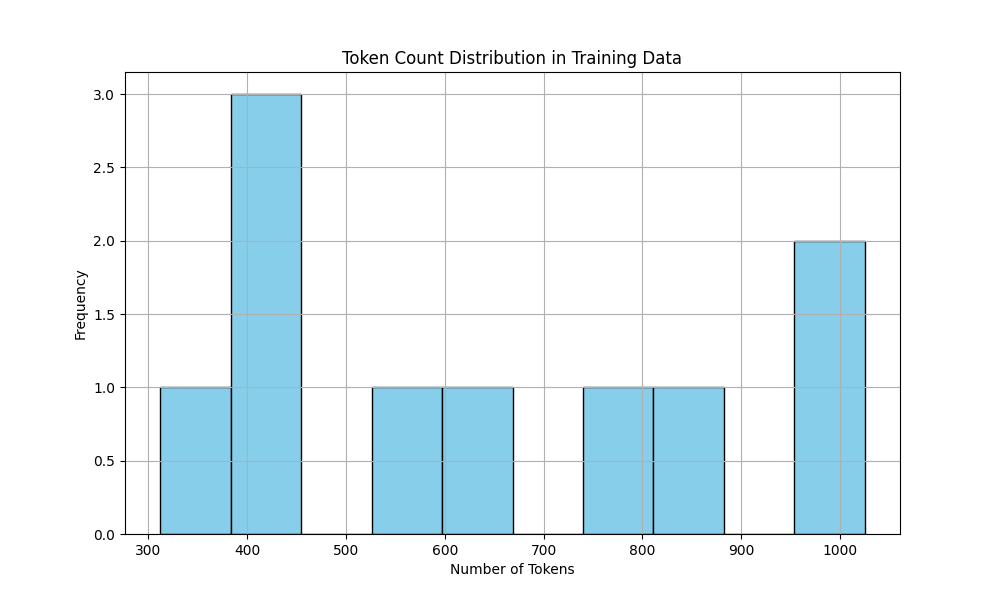
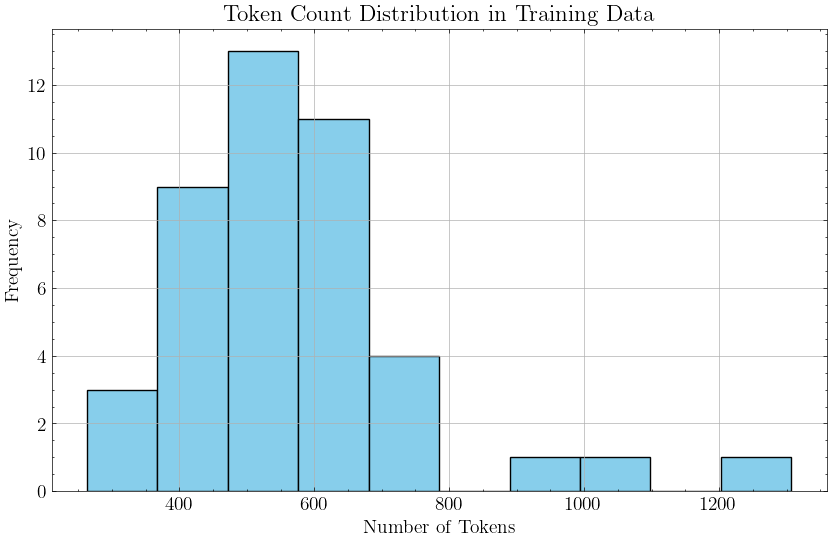
Training adjusted for SQLite DB

diff --git a/src/trainer.py b/src/trainer.py
@@ -1,8 +1,9 @@
 from transformers import AutoTokenizer, TrainingArguments, Trainer, AutoModelForCausalLM
 from dotenv import load_dotenv
-import os, torch, logging, datasets, json, argparse
+import os, torch, logging, datasets, json, argparse, sqlite3
 from peft import LoraConfig, get_peft_model
 from datasets import load_dataset
+import pandas as pd
 from JanusLModel import JanusSequenceClassification
 from torch.utils.data import DataLoader
 from torch.optim import AdamW 
@@ -33,63 +34,68 @@ if args.verbose:
     logging.basicConfig(level=logging.INFO)
 logger = logging.getLogger(__name__)
 
-def AnalyzeTrainingData():
-    tokenizer = AutoTokenizer.from_pretrained(model_path)
-    token_lengths = []
-    with open("datasets/reasoning.jsonl", "r", encoding="utf-8") as f:
-        file_data = "".join(f.readlines())
-        items = json.loads(file_data)
-        for item in items:
-            full_text = item["prompt"] + item["reasoning"]
-            tokenized = tokenizer(full_text, truncation=False)
-            token_lengths.append(len(tokenized["input_ids"]))
-    plt.style.use('science')
-    plt.figure(figsize=(10, 6))
-    plt.hist(token_lengths, bins=10, color='skyblue', edgecolor='black')
-    plt.title("Token Count Distribution in Training Data")
-    plt.xlabel("Number of Tokens")
-    plt.ylabel("Frequency")
-    plt.grid(True)
-    plt.savefig("imgs/training-data-tokens-distribution.png")
+def load_data():
+    conn = sqlite3.connect('datasets/data.db')
+    df = pd.read_sql_query("SELECT * FROM training_data", conn)
+    from datasets import Dataset
+    dataset = Dataset.from_pandas(df)
+    return dataset
 
 def StartTraining():
     if args.cpu:
         torch.set_num_threads(1)
     tokenizer = AutoTokenizer.from_pretrained(model_path)
-    dataset = load_dataset("json", data_files="datasets/reasoning.jsonl")
+    dataset = load_data()
     tokenizer.pad_token = tokenizer.eos_token
+    with open("prompts/training_reasoning_self_classification.txt", "r", encoding="utf-8") as f: prompt_tmp = f.read()
 
     def tokenize_fn(sample):
-        prompt = sample["prompt"]
-        full_text = prompt + sample["reasoning"] + "\n\n### Response:" + str(sample["classification"])
-        tokenized = tokenizer(
-            full_text,
-            truncation=True,
-            padding="max_length",
-            max_length=2048,
+        full_text = (
+            prompt_tmp
+            .replace("{request}", sample["request"])
+            .replace("{response}", sample["response"])
+            .replace("{reasoning}", sample["analysis"])
+            .replace("{result}", "1" if sample["is_vulnerable"] else "0")
         )
-        prompt_ids = tokenizer(prompt, truncation=True, max_length=512).input_ids
-        prompt_len = len(prompt_ids)
-        labels = [-100] * prompt_len + tokenized["input_ids"][prompt_len:]
-        labels += [-100] * (512 - len(labels))
+
+        input_text = full_text.split("<<<<>>>>")[0].strip()
+        output_text = full_text.split("<<<<>>>>")[1].strip()
+        full_text = full_text.replace("<<<<>>>>","")
+        input_tokens = tokenizer(input_text, truncation=True, max_length=1024, add_special_tokens=False)
+        output_tokens = tokenizer(output_text, truncation=True, max_length=1024, add_special_tokens=False)
+        input_ids = input_tokens["input_ids"] + output_tokens["input_ids"]
+        attention_mask = [1] * len(input_ids)
+        labels = [-100] * len(input_tokens["input_ids"]) + output_tokens["input_ids"]
+        max_len = 2048
+        pad_len = max_len - len(input_ids)
+        if pad_len > 0:
+            input_ids += [tokenizer.pad_token_id] * pad_len
+            attention_mask += [0] * pad_len
+            labels += [-100] * pad_len
+        else:
+            input_ids = input_ids[:max_len]
+            attention_mask = attention_mask[:max_len]
+            labels = labels[:max_len]
         return {
-            "input_ids": tokenized["input_ids"],
-            "attention_mask": tokenized["attention_mask"],
+            "input_ids": input_ids,
+            "attention_mask": attention_mask,
             "labels": labels,
         }
+    
     logger.info("Tokenizing dataset...")
     if args.cpu:
         tokenized = dataset.map(
             tokenize_fn, 
             batched=False, 
-            remove_columns=dataset["train"].column_names, 
+            remove_columns=dataset.column_names,
             num_proc=None)
     else:
         tokenized = dataset.map(
-            tokenize_fn, 
-            remove_columns=dataset["train"].column_names)
-    train_dataset = tokenized["train"].select(range(min(10, len(tokenized["train"]))))
-
+            tokenize_fn,
+            remove_columns=dataset.column_names
+            )
+    train_dataset = tokenized
+    
     logger.info("Loading base model...")
     base_model = AutoModelForCausalLM.from_pretrained(model_path, torch_dtype=torch.float32, device_map=None)
     if args.cpu:
@@ -192,7 +198,7 @@ def StartTraining():
     # Fir the trend line
     coeffs = np.polyfit(steps, losses, deg=1)
     trend_line = np.poly1d(coeffs)
-
+    plt.rcParams.update({'font.size': 14})
     plt.style.use('science')
     plt.figure(figsize=(7, 4))
     plt.plot(steps, losses, marker="o")
@@ -201,8 +207,8 @@ def StartTraining():
     plt.ylabel("Training Loss")
     plt.title("Training LoRA Adapter")
     plt.grid(True)
-    #plt.savefig("imgs/fine-tuning-training-loss.png")
+    if args.charts:
+        plt.savefig("imgs/fine-tuning-training-loss.png")
     plt.show()
 
-AnalyzeTrainingData()
 StartTraining()

diff --git a/src/data_generator.py b/src/data_generator.py
@@ -1,6 +1,7 @@
 import argparse, sqlite3, random, os, logging
 from dotenv import load_dotenv
 from openai import OpenAI
+import matplotlib.pyplot as plt
 
 conn = sqlite3.connect('datasets/data.db')
 cursor = conn.cursor()
@@ -42,6 +43,27 @@ def init():
         except:
             pass
     conn.commit()
+
+def AnalyzeTrainingData():
+    import scienceplots
+    from transformers import AutoTokenizer
+    tokenizer = AutoTokenizer.from_pretrained(os.getenv("MODEL_PATH"))
+    token_lengths = []
+    cursor.execute('SELECT * FROM training_data')
+    rows = cursor.fetchall()
+    for item in rows:
+        full_text = item[1] + item[2] + item[3]
+        tokenized = tokenizer(full_text, truncation=False)
+        token_lengths.append(len(tokenized["input_ids"]))
+    plt.rcParams.update({'font.size': 14})
+    plt.style.use('science')
+    plt.figure(figsize=(10, 6))
+    plt.hist(token_lengths, bins=10, color='skyblue', edgecolor='black')
+    plt.title("Token Count Distribution in Training Data")
+    plt.xlabel("Number of Tokens")
+    plt.ylabel("Frequency")
+    plt.grid(True)
+    plt.savefig("imgs/training-data-tokens-distribution.png")
 
 def store_data(request, response, is_vulnerable, reasoning):
     vuln_id = None
@@ -114,6 +136,7 @@ def generate_data():
         response = vuln_pair.split("<response>")[1].split("</response")[0]
         # Create a vulnerable clone
         prompt_res_vuln = prompt_tmp_vuln.replace("{request}", request).replace("{response}", response).replace("{vulnerability}", vulnerability)
+        prompt_res_vuln = prompt_res_vuln.replace("{instruction}", args.instruction)
         vuln_pair = submit_prompt(prompt_res_vuln)
         vuln_request = vuln_pair.split("<request>")[1].split("</request")[0]
         vuln_response = vuln_pair.split("<response>")[1].split("</response")[0]
@@ -121,7 +144,8 @@ def generate_data():
         reasoning = submit_prompt(prompt_tmp_reasoning.replace("{request}", request).replace("{response}", response))
         reasoning_vuln = submit_prompt(prompt_tmp_reasoning.replace("{request}", vuln_request).replace("{response}", vuln_response))
         # Store data in DB
-        store_data(request.strip(), response.strip(), False, reasoning.strip())
+        if not args.nofp:
+            store_data(request.strip(), response.strip(), False, reasoning.strip())
         store_data(vuln_request.strip(), vuln_response.strip(), True, reasoning_vuln.strip())
 
 init()
@@ -131,11 +155,18 @@ parser.add_argument("--num", default=1, type=int, required=False, help="number o
 parser.add_argument("--templates", default="datasets/req_res_templates.txt", help="templates for request/response pairs.")
 parser.add_argument("--vuln", required=True, choices=['HTTP_HEADERS','XSS'], help="Select category of vulnerability")
 parser.add_argument("--verbose", action="store_true", help="Activates detailed log output")
+parser.add_argument("--instruction", default="", required=False, help="Special instruction for the agent that is introducing vuln.")
+parser.add_argument("--nofp", action="store_true", required=False, help="Only store vulnerable req/res pair.")
+parser.add_argument("--analyze", required=False, action="store_true", help="Only analyze stored training data")
 args = parser.parse_args()
 
 if args.verbose:
     logging.basicConfig(level=logging.INFO)
 logger = logging.getLogger(__name__)
+
+if args.analyze:
+    AnalyzeTrainingData()
+    exit(0)
 
 generate_data()
 

diff --git a/README.md b/README.md
@@ -50,7 +50,7 @@ Data has been prepared in following format:
 
 *Note: This section is still in design phase...*
 
-Templates of realistic HTTP request/response pairs were combined with agents using larger models to generate synthetic training data:
+High-quality of manually crafted templates of realistic HTTP request/response pairs were passed through multiple agents that used larger models to generate synthetic training data. Each agent performed small mutations to the templates to expand 
 
 ![synthentic-data-generation](imgs/synthetic-data-generation.png)
 
@@ -67,9 +67,14 @@ options:
   --vuln {HTTP_HEADERS,XSS} Select category of vulnerability
 ```
 
+for example:
+```console
+python src\data_generator.py --verbose --vuln HTTP_HEADERS --num 5 --instruction "Do not introduce CORS misconfiguration, but introduce HSTS misconfiguration"
+```
+
 To generate one pair of high-quality training data, it costs on average:
-- Input tokens: ~3500
-- Output tokens: ~1700
+- Input tokens: ~4000
+- Output tokens: ~10000
 
 Current token distribution in training data (*Larger dataset to be prepared*):
 
